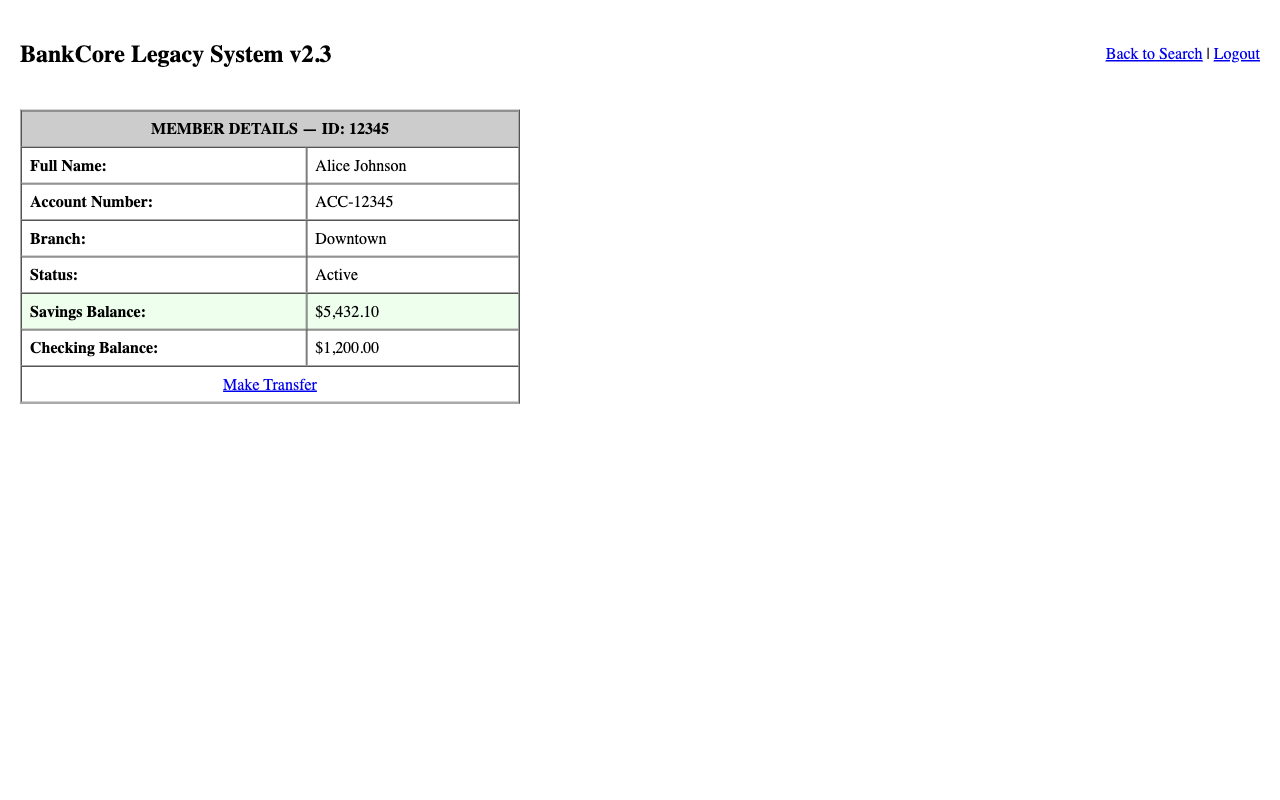
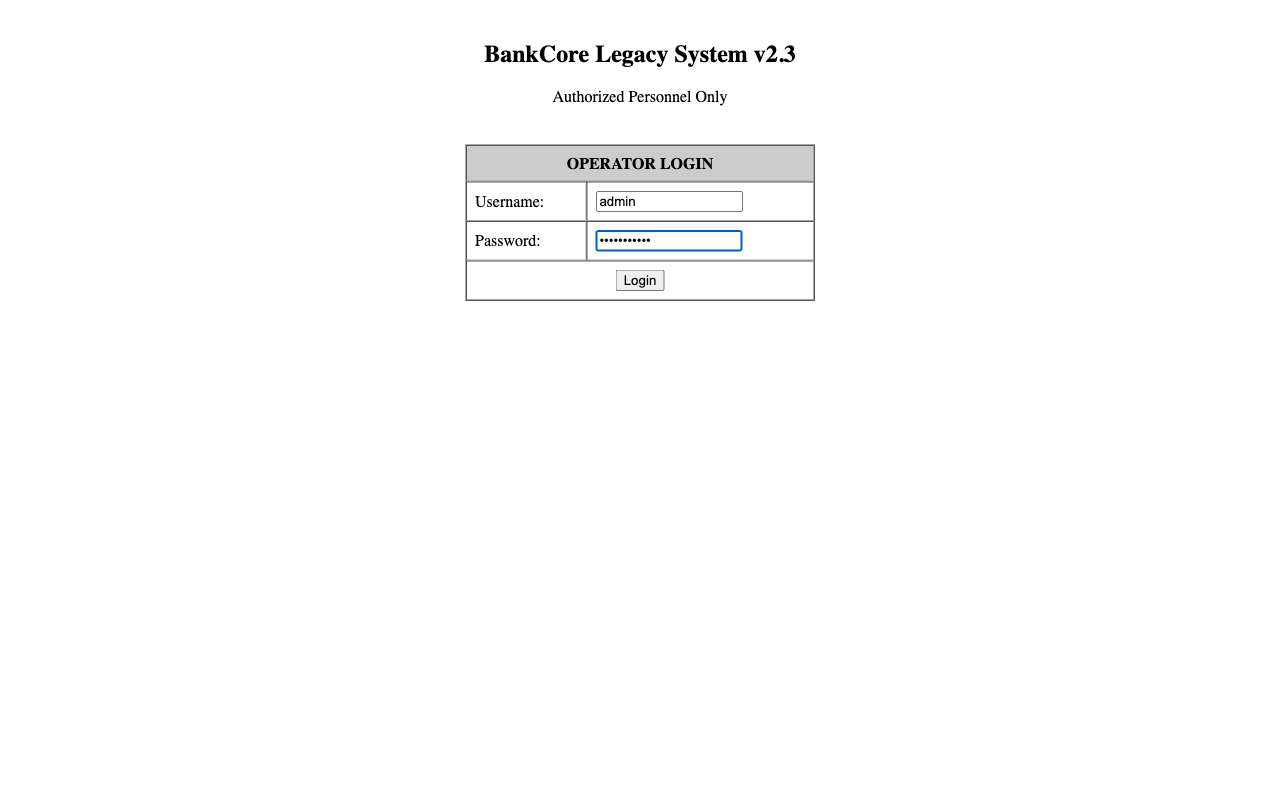
Replay engine works - extracts balance without AI

diff --git a/replay.py b/replay.py
@@ -1,0 +1,136 @@
+# replay.py
+# Loads a saved artifact and replays the steps — NO AI needed
+
+import json
+from playwright.sync_api import sync_playwright
+
+def replay(artifact_path, input_params={}):
+    """
+    Loads an artifact JSON and replays every step.
+    input_params lets you swap {{member_id}} with a real value.
+    """
+
+    print(f"\n📂 Loading artifact: {artifact_path}")
+    with open(artifact_path) as f:
+        artifact = json.load(f)
+
+    print(f"   Capability: {artifact['capability_name']}")
+    print(f"   Steps to replay: {len(artifact['steps'])}")
+    print(f"   Input params: {input_params}")
+
+    results = {}
+
+    with sync_playwright() as p:
+        browser = p.chromium.launch(headless=False)
+        page = browser.new_page(viewport={"width": 1280, "height": 800})
+        page.goto(artifact["target_url"])
+
+        for i, step in enumerate(artifact["steps"]):
+            step_id = step.get("step_id", i)
+            action = step.get("action", step.get("action_type", ""))
+            element = step.get("element", step.get("locator", {}).get("value", "unknown") if isinstance(step.get("locator"), dict) else "unknown")
+
+            # Replace {{member_id}} with the real value
+            value = step.get("value")
+            if value and "{{" in str(value):
+                for param_key, param_val in input_params.items():
+                    value = value.replace(f"{{{{{param_key}}}}}", param_val)
+
+            print(f"\n   Step {step_id + 1}: {action} → {element}")
+            if value:
+                print(f"            value: {value}")
+
+            try:
+                if action == "type":
+                    if "username" in element.lower():
+                        page.get_by_placeholder("Username").fill(value)
+                    elif "password" in element.lower():
+                        page.get_by_placeholder("Password").fill(value)
+                    elif "member" in element.lower():
+                        page.get_by_placeholder("Enter Member ID").fill(value)
+                    page.wait_for_timeout(500)
+
+                elif action == "click":
+                    if "login" in element.lower():
+                        page.get_by_role("button", name="Login").click()
+                    elif "search" in element.lower():
+                        page.get_by_role("button", name="Search Member").click()
+                    page.wait_for_timeout(1000)
+
+                elif action == "read":
+                    # Read savings balance from the page
+                    all_cells = page.locator("td").all()
+                    for i, cell in enumerate(all_cells):
+                        text = cell.inner_text().strip()
+                        if "Savings Balance" in text:
+                            balance = all_cells[i + 1].inner_text().strip()
+                            results["savings_balance"] = balance
+                            print(f"            extracted: {balance}")
+
+                print(f"   ✓ Done")
+
+            except Exception as e:
+                print(f"   ❌ Failed: {e}")
+                break
+
+        page.wait_for_timeout(2000)
+        browser.close()
+
+    print(f"\n✅ REPLAY COMPLETE")
+    print(f"   Results: {results}")
+    return results
+
+
+# Run it — change the artifact filename to match yours
+if __name__ == "__main__":
+    import sys
+    import os
+
+    # Find the latest artifact
+    files = [f for f in os.listdir("artifacts") if f.endswith(".json")]
+    if not files:
+        print("No artifacts found! Run test_agent.py first.")
+        exit()
+
+    latest = sorted(files)[-1]
+    artifact_path = f"artifacts/{latest}"
+
+    # Replay with a DIFFERENT member ID
+    results = replay(
+        artifact_path=artifact_path,
+        input_params={"member_id": "67890"}
+    )
+
+
+
+# # 
+# 📂 Loading artifact: artifacts/lookup_member_balance_cb794397.json
+#    Capability: lookup_member_balance
+#    Steps to replay: 6
+#    Input params: {'member_id': '67890'}
+
+#    Step 1: type → Username input field
+#             value: admin
+#    ✓ Done
+
+#    Step 2: type → Password input field
+#             value: password123
+#    ✓ Done
+
+#    Step 3: click → Login button
+#    ✓ Done
+
+#    Step 4: type → Member ID input field
+#             value: 67890
+#    ✓ Done
+
+#    Step 5: click → Search Member button
+#    ✓ Done
+
+#    Step 6: read → Savings Balance value
+#             extracted: MEMBER DETAILS — ID: 67890
+#             extracted: $12,750.50
+#    ✓ Done
+
+# ✅ REPLAY COMPLETE
+#    Results: {'savings_balance': '$12,750.50'}

diff --git a/test_agent.py b/test_agent.py
@@ -130,7 +130,12 @@ with sync_playwright() as p:
             break
 
         execute_action(page, action)
-        steps_done.append(action)
+        #steps_done.append(action)
+        # Replace actual member_id value with placeholder before saving
+        step_to_save = action.copy()
+        if step_to_save.get("value") == "12345":
+            step_to_save["value"] = "{{member_id}}"
+        steps_done.append(step_to_save)
 
     page.wait_for_timeout(3000)
     browser.close()
